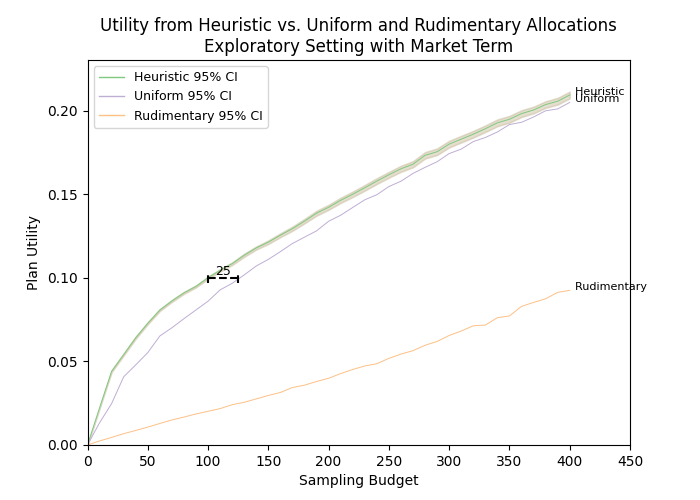
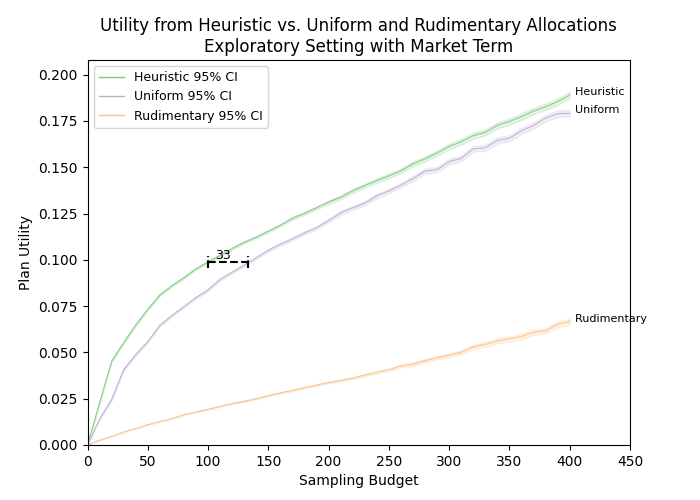
initial 3rd chapter work

diff --git a/CASESTUDY_plotsforpaper.py b/CASESTUDY_plotsforpaper.py
@@ -391,7 +391,7 @@ def casestudyplots_exploratory():
 
     #######################
     # Allocation plot
-    allocArr = np.load(os.path.join('casestudyoutputs', '15JUN', 'expl_alloc.npy'))
+    allocArr = np.load(os.path.join('casestudyoutputs', 'exploratory', 'expl_alloc.npy'))
     colorsset = plt.get_cmap('Set1')
     colorsset2 = plt.get_cmap('Dark2')
     colorinds = [6, 1, 2, 3, 4, 0, 5, 7]
@@ -410,15 +410,15 @@ def casestudyplots_exploratory():
     # allocMax = allocArr.max() * testInt * 1.1
     allocMax = 120
     for tnind in range(numTN):
-        delt=4.3
+        delt=4
         if tnind==0:
             plt.text(testmax * 1.01, allocArr[tnind, -1] * testint - delt, labels[tnind].ljust(15), fontsize=labelSz - 1)
-        elif tnind==5:
+        elif tnind==6:
             plt.text(testmax * 1.01, allocArr[tnind, -1] * testint + delt, labels[tnind].ljust(15), fontsize=labelSz - 1)
         elif tnind==2:
-            plt.text(testmax * 1.01, allocArr[tnind, -1] * testint + 1.1*delt, labels[tnind].ljust(15), fontsize=labelSz - 1)
-        elif tnind==3:
             plt.text(testmax * 1.01, allocArr[tnind, -1] * testint + 0.2*delt, labels[tnind].ljust(15), fontsize=labelSz - 1)
+        #elif tnind==3:
+        #    plt.text(testmax * 1.01, allocArr[tnind, -1] * testint + 0.2*delt, labels[tnind].ljust(15), fontsize=labelSz - 1)
         else:
             plt.text(testmax * 1.01, allocArr[tnind, -1] * testint, labels[tnind].ljust(15), fontsize=labelSz - 1)
 
@@ -435,15 +435,15 @@ def casestudyplots_exploratory():
 
     #######################
     # Policy utility comparison
-    util_arr = np.load(os.path.join('casestudyoutputs', '31MAY', 'util_avg_arr_expl.npy'))
-    util_arr_hi = np.load(os.path.join('casestudyoutputs', '31MAY', 'util_hi_arr_expl.npy'))
-    util_arr_lo = np.load(os.path.join('casestudyoutputs', '31MAY', 'util_lo_arr_expl.npy'))
-    heur_util = np.load(os.path.join('casestudyoutputs', '15JUN', 'expl_util_avg.npy'))
-    heur_util_hi = np.load(os.path.join('casestudyoutputs', '15JUN', 'expl_util_hi.npy'))
-    heur_util_lo = np.load(os.path.join('casestudyoutputs', '15JUN', 'expl_util_lo.npy'))
-    util_arr = np.vstack((heur_util,util_arr[1:]))
-    util_arr_hi = np.vstack((heur_util_hi, util_arr_hi[1:]))
-    util_arr_lo = np.vstack((heur_util_lo, util_arr_lo[1:]))
+    util_arr = np.load(os.path.join('casestudyoutputs', 'exploratory', 'util_avg_arr_expl.npy'))
+    util_arr_hi = np.load(os.path.join('casestudyoutputs', 'exploratory', 'util_hi_arr_expl.npy'))
+    util_arr_lo = np.load(os.path.join('casestudyoutputs', 'exploratory', 'util_lo_arr_expl.npy'))
+    heur_util = np.load(os.path.join('casestudyoutputs', 'exploratory', 'expl_util_avg.npy'))
+    heur_util_hi = np.load(os.path.join('casestudyoutputs', 'exploratory', 'expl_util_hi.npy'))
+    heur_util_lo = np.load(os.path.join('casestudyoutputs', 'exploratory', 'expl_util_lo.npy'))
+    util_arr = np.vstack((heur_util,util_arr))
+    util_arr_hi = np.vstack((heur_util_hi, util_arr_hi))
+    util_arr_lo = np.vstack((heur_util_lo, util_arr_lo))
     # Utility comparison plot
     colorsset = plt.get_cmap('Accent')
     colorinds = [0, 1, 2]
@@ -475,7 +475,7 @@ def casestudyplots_exploratory():
     plt.ylabel('Plan Utility', fontsize=axSz)
     plt.title('Utility from Heuristic vs. Uniform and Rudimentary Allocations\nExploratory Setting', fontsize=titleSz)
     # Add text for budgetary savings vs other policies at 100 tests
-    x1, x2, x3 = 100, 119, 298
+    x1, x2, x3 = 100, 120, 331
     iv = 0.03
     utilind = int(x1/testint)
     plt.plot([x1, x3], [util_arr[0][utilind], util_arr[0][utilind]], color='black', linestyle='--')
@@ -595,9 +595,9 @@ def casestudyplots_exploratory_market():
     util_arr = np.load(os.path.join('casestudyoutputs', 'exploratory', 'util_avg_arr_expl_market.npy'))
     util_arr_hi = np.load(os.path.join('casestudyoutputs', 'exploratory', 'util_hi_arr_expl_market.npy'))
     util_arr_lo = np.load(os.path.join('casestudyoutputs', 'exploratory', 'util_lo_arr_expl_market.npy'))
-    heur_util = np.load(os.path.join('casestudyoutputs', '15JUN', 'expl_market_util_avg.npy'))
-    heur_util_hi = np.load(os.path.join('casestudyoutputs', '15JUN', 'expl_market_util_hi.npy'))
-    heur_util_lo = np.load(os.path.join('casestudyoutputs', '15JUN', 'expl_market_util_lo.npy'))
+    heur_util = np.load(os.path.join('casestudyoutputs', 'exploratory', 'expl_market_util_avg.npy'))
+    heur_util_hi = np.load(os.path.join('casestudyoutputs', 'exploratory', 'expl_market_util_hi.npy'))
+    heur_util_lo = np.load(os.path.join('casestudyoutputs', 'exploratory', 'expl_market_util_lo.npy'))
     util_arr = np.vstack((heur_util,util_arr))
     util_arr_hi = np.vstack((heur_util_hi, util_arr_hi))
     util_arr_lo = np.vstack((heur_util_lo, util_arr_lo))
@@ -632,7 +632,7 @@ def casestudyplots_exploratory_market():
     plt.ylabel('Plan Utility', fontsize=axSz)
     plt.title('Utility from Heuristic vs. Uniform and Rudimentary Allocations\nExploratory Setting with Market Term', fontsize=titleSz)
     # Add text for budgetary savings vs other policies at 100 tests
-    x1, x2 = 100, 125
+    x1, x2 = 100, 133
     iv = 0.0032
     utilind = int(x1/testint)
     plt.plot([x1, x2], [util_arr[0][utilind], util_arr[0][utilind]], color='black', linestyle='--')

diff --git a/supplychainanalysis.py b/supplychainanalysis.py
@@ -1,0 +1,141 @@
+"""
+Initial script for sourcing matrix (Q) analysis
+"""
+import numpy as np
+import scipy.optimize as spo
+import scipy.stats as spstat
+import scipy.special as sps
+
+class prior_flatsourcing:
+    """
+    Defines the class instance of priors for a sourcing vector with a flat distribution across all supply nodes, and
+    the following methods:
+        rand: generate random draws from the distribution
+        lpdf: log-likelihood of a given vector
+        lpdf_jac: Jacobian of the log-likelihood at the given vector
+        lpdf_hess: Hessian of the log-likelihood at the given vector
+    beta inputs may be a Numpy array of vectors
+    """
+    def __init__(self, numSNs=2):
+        self.mu = np.ones(numSNs) / numSNs
+
+    def rand(self, numsamps=1, numvecs=1):
+        return np.random.dirichlet(alpha=self.mu) (n=numsamps, pvals=mu, size=numvecs)
+
+    def lpdf(self, pi):
+        if pi.ndim == 1: # reshape to 2d
+            pi = np.reshape(pi,(1,-1))
+
+        lik = -(1/(2*self.var)) * np.sum((beta - (self.mu))**2,axis=1) - np.log(self.var*2*np.pi)*np.size(beta)/2
+        return np.squeeze(lik)
+    def lpdf_jac(self,beta):
+        if beta.ndim == 1: # reshape to 2d
+            beta = np.reshape(beta,(1,-1))
+        jac = -(1/self.var) * (beta - self.mu)
+        return np.squeeze(jac)
+    def lpdf_hess(self,beta):
+        if beta.ndim == 1: # reshape to 2d
+            beta = np.reshape(beta,(1,-1))
+        k,n = len(beta[:,0]),len(beta[0])
+        hess = np.tile(np.zeros(shape=(n,n)),(k,1,1))
+        for i in range(k):
+            hess[i] = np.diag(np.repeat(-(1/self.var),n))
+        return np.squeeze(hess)
+
+
+# Use a Dirichlet-Multinomial conjugate?
+class Dirichlet(object):
+    def __init__(self, alpha):
+        from math import gamma
+        from operator import mul
+        self._alpha = np.array(alpha)
+        self._coef = gamma(np.sum(self._alpha)) / \
+                           np.multiply.reduce([gamma(a) for a in self._alpha])
+    def pdf(self, x):
+        """Returns pdf value for x"""
+        from operator import mul
+        return self._coef * np.multiply.reduce([xx ** (aa - 1)
+                                               for (xx, aa)in zip(x, self._alpha)])
+    def rand(self, n):
+        """Returns random draws from this distribution"""
+        return np.random.dirichlet(self._alpha, size=n)
+
+dirObj = Dirichlet([30.3, 10.3, 60.4])
+temp = dirObj.rand(1000)
+
+for i in range(temp.shape[1]):
+    plt.hist(temp[:,i],alpha=0.2)
+plt.show()
+plt.close()
+
+def initflatdirichlet(Q):
+    """Initialize a list of Dirichlet objects for each test node using the observations contained in Q"""
+    return [Dirichlet(Q[i] + np.ones(Q.shape[1])/Q.shape[1]) for i in range(Q.shape[0])]
+
+def getranddraws(Qobjlist):
+    retlist = []
+    for dirobj in Qobjlist:
+        retlist.append(dirobj.rand(1))
+    return np.squeeze(np.array(retlist))
+
+Q = np.array([[6, 11],
+              [12, 6],
+              [2, 13]])
+
+Qobjlist = initflatdirichlet(Q)
+getranddraws(Qobjlist)
+
+
+import numpy as np
+import matplotlib.pyplot as plt
+import matplotlib.tri as tri
+
+corners = np.array([[0, 0], [1, 0], [0.5, 0.75**0.5]])
+AREA = 0.5 * 1 * 0.75**0.5
+triangle = tri.Triangulation(corners[:, 0], corners[:, 1])
+
+
+refiner = tri.UniformTriRefiner(triangle)
+trimesh = refiner.refine_triangulation(subdiv=4)
+
+plt.figure(figsize=(8, 4))
+for (i, mesh) in enumerate((triangle, trimesh)):
+    plt.subplot(1, 2, i+ 1)
+    plt.triplot(mesh)
+    plt.axis('off')
+    plt.axis('equal')
+
+# For each corner of the triangle, the pair of other corners
+pairs = [corners[np.roll(range(3), -i)[1:]] for i in range(3)]
+# The area of the triangle formed by point xy and another pair or points
+tri_area = lambda xy, pair: 0.5 * np.linalg.norm(np.cross(*(pair - xy)))
+
+def xy2bc(xy, tol=1.e-4):
+    '''Converts 2D Cartesian coordinates to barycentric.'''
+    coords = np.array([tri_area(xy, p) for p in pairs]) / AREA
+    return np.clip(coords, tol, 1.0 - tol)
+
+
+
+def draw_pdf_contours(dist, nlevels=200, subdiv=8, **kwargs):
+    import math
+
+    refiner = tri.UniformTriRefiner(triangle)
+    trimesh = refiner.refine_triangulation(subdiv=subdiv)
+    pvals = [dist.pdf(xy2bc(xy)) for xy in zip(trimesh.x, trimesh.y)]
+
+    plt.tricontourf(trimesh, pvals, nlevels, cmap='jet', **kwargs)
+    plt.axis('equal')
+    plt.xlim(0, 1)
+    plt.ylim(0, 0.75**0.5)
+    plt.axis('off')
+    plt.show()
+    plt.close()
+
+draw_pdf_contours(Dirichlet([5, 5, 5]))
+
+
+
+
+
+

diff --git a/CASESTUDY_MStable.py b/CASESTUDY_MStable.py
@@ -214,13 +214,13 @@ print('Saved vs Rudi at 180: '+str(rudi180saved))
 
 
 ######### EXPLORATORY SETTING ###############
-fam_alloc = np.load(os.path.join('casestudyoutputs', '15JUN', 'expl_alloc.npy'))
-fam_util_avg = np.load(os.path.join('casestudyoutputs', '15JUN', 'expl_util_avg.npy'))
+fam_alloc = np.load(os.path.join('casestudyoutputs', 'exploratory', 'expl_alloc.npy'))
+fam_util_avg = np.load(os.path.join('casestudyoutputs', 'exploratory', 'expl_util_avg.npy'))
 print('Base allocation at 90:\n'+str(fam_alloc[:,9]))
 print('Base allocation at 180:\n'+str(fam_alloc[:,18]))
-util_avg_arr = np.load(os.path.join('casestudyoutputs', '31MAY', 'util_avg_arr_expl.npy'))
-util_avg_unif_90, util_avg_unif_180 = util_avg_arr[1, 9:], util_avg_arr[1, 18:]
-util_avg_rudi_90, util_avg_rudi_180 = util_avg_arr[2, 9:], util_avg_arr[2, 18:]
+util_avg_arr = np.load(os.path.join('casestudyoutputs', 'exploratory', 'util_avg_arr_expl.npy'))
+util_avg_unif_90, util_avg_unif_180 = util_avg_arr[0, 9:], util_avg_arr[0, 18:]
+util_avg_rudi_90, util_avg_rudi_180 = util_avg_arr[1, 9:], util_avg_arr[1, 18:]
 alloc90, alloc180 = fam_util_avg[9], fam_util_avg[18]
 # Extend rudimentary utility a bit to get estimate
 slope = (util_avg_rudi_180[-1] - util_avg_rudi_180[0]) / util_avg_rudi_180.shape[0]
@@ -273,12 +273,12 @@ print('Saved vs Unif at 180: '+str(unif180saved))
 print('Saved vs Rudi at 180: '+str(rudi180saved))
 
 # Prior variance: 4
-fam_MS_alloc = np.load(os.path.join('casestudyoutputs', '15JUN', 'expl_MS_priorvar_4_alloc.npy'))
-fam_MS_util_avg = np.load(os.path.join('casestudyoutputs', '15JUN', 'expl_MS_priorvar_4_util_avg.npy'))
-util_avg_rudi_90 = np.load(os.path.join('casestudyoutputs', '15JUN', 'expl_MS_priorvar_4_util_avg_rudi_90.npy'))
-util_avg_rudi_180 = np.load(os.path.join('casestudyoutputs', '15JUN', 'expl_MS_priorvar_4_util_avg_rudi_180.npy'))
-util_avg_unif_90 = np.load(os.path.join('casestudyoutputs', '15JUN', 'expl_MS_priorvar_4_util_avg_unif_90.npy'))
-util_avg_unif_180 = np.load(os.path.join('casestudyoutputs', '15JUN', 'expl_MS_priorvar_4_util_avg_unif_180.npy'))
+fam_MS_alloc = np.load(os.path.join('casestudyoutputs', 'modeling_sensitivity', 'expl_MS_priorvar_4_alloc.npy'))
+fam_MS_util_avg = np.load(os.path.join('casestudyoutputs', 'modeling_sensitivity', 'expl_MS_priorvar_4_util_avg.npy'))
+util_avg_rudi_90 = np.load(os.path.join('casestudyoutputs', 'modeling_sensitivity', 'expl_MS_priorvar_4_util_avg_rudi_90.npy'))
+util_avg_rudi_180 = np.load(os.path.join('casestudyoutputs', 'modeling_sensitivity', 'expl_MS_priorvar_4_util_avg_rudi_180.npy'))
+util_avg_unif_90 = np.load(os.path.join('casestudyoutputs', 'modeling_sensitivity', 'expl_MS_priorvar_4_util_avg_unif_90.npy'))
+util_avg_unif_180 = np.load(os.path.join('casestudyoutputs', 'modeling_sensitivity', 'expl_MS_priorvar_4_util_avg_unif_180.npy'))
 alloc90 = fam_MS_util_avg[9]
 alloc180 = fam_MS_util_avg[18]
 kInd = next(x for x, val in enumerate(util_avg_unif_90) if val > alloc90)
